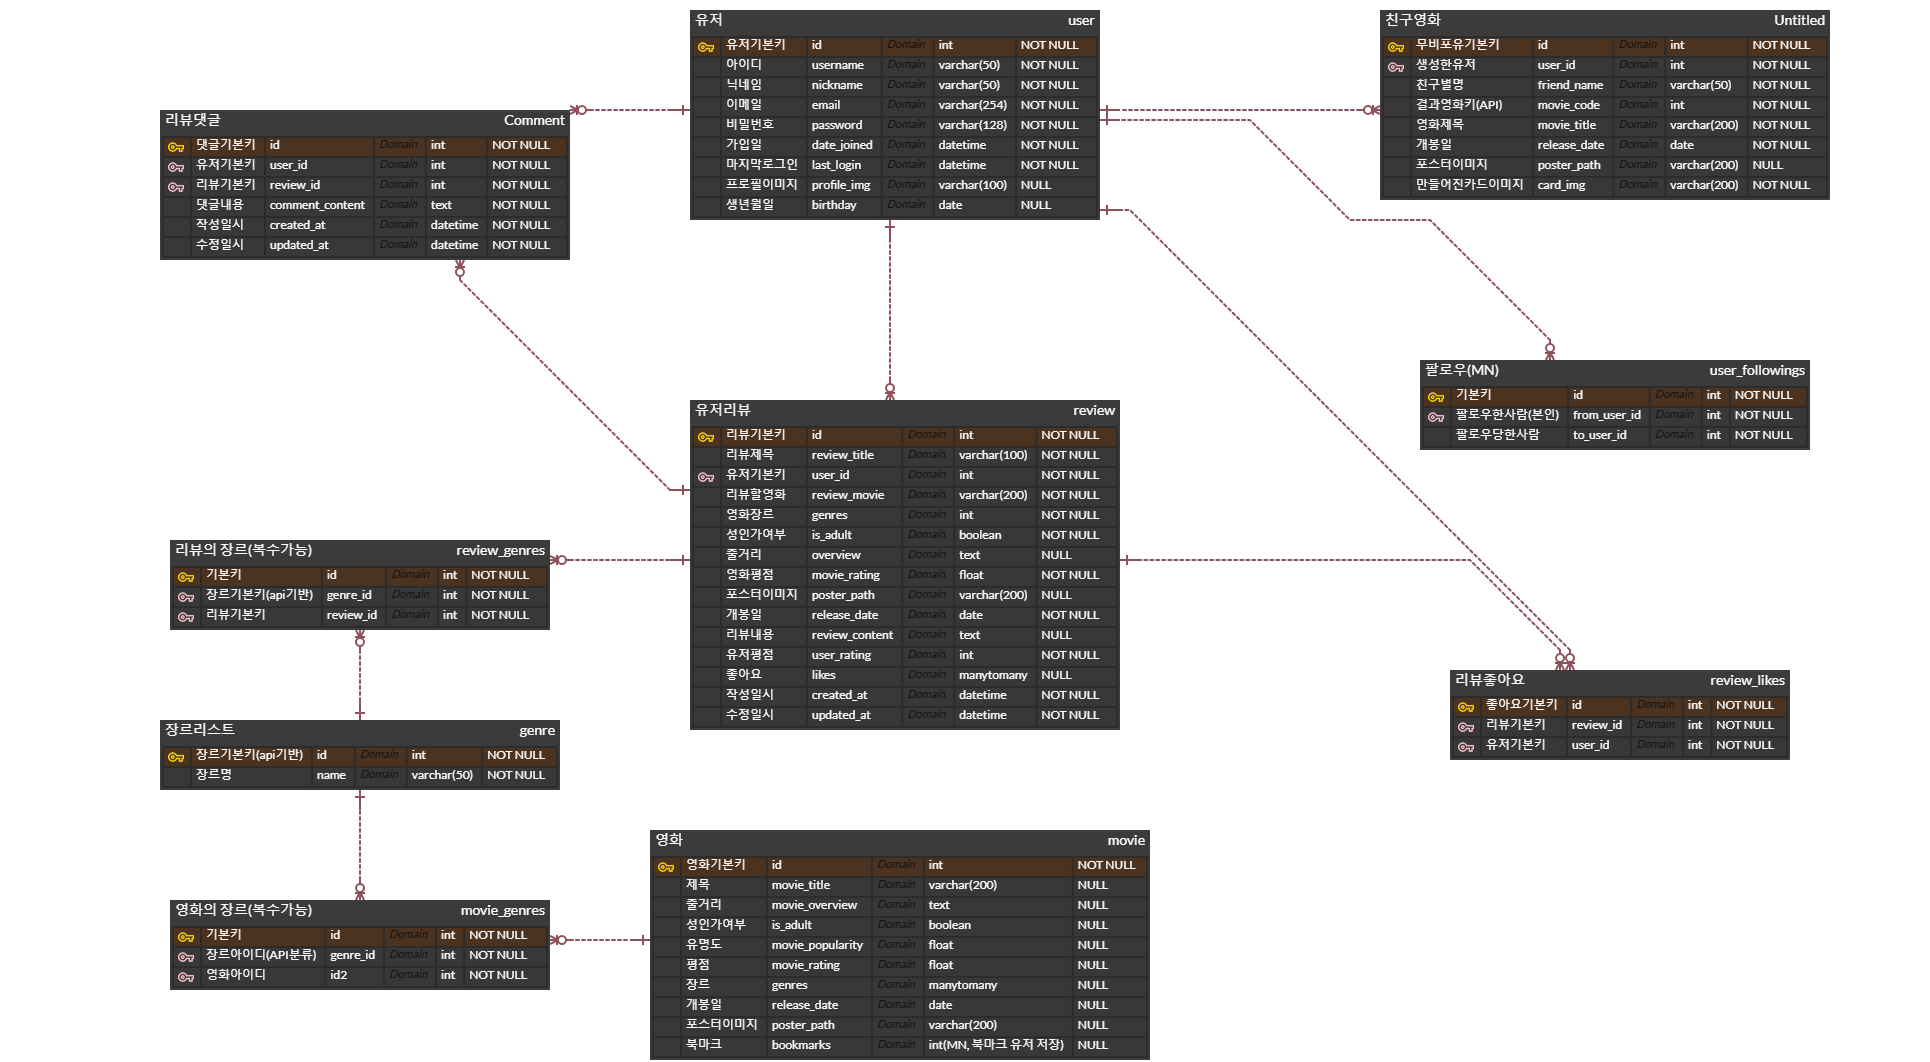
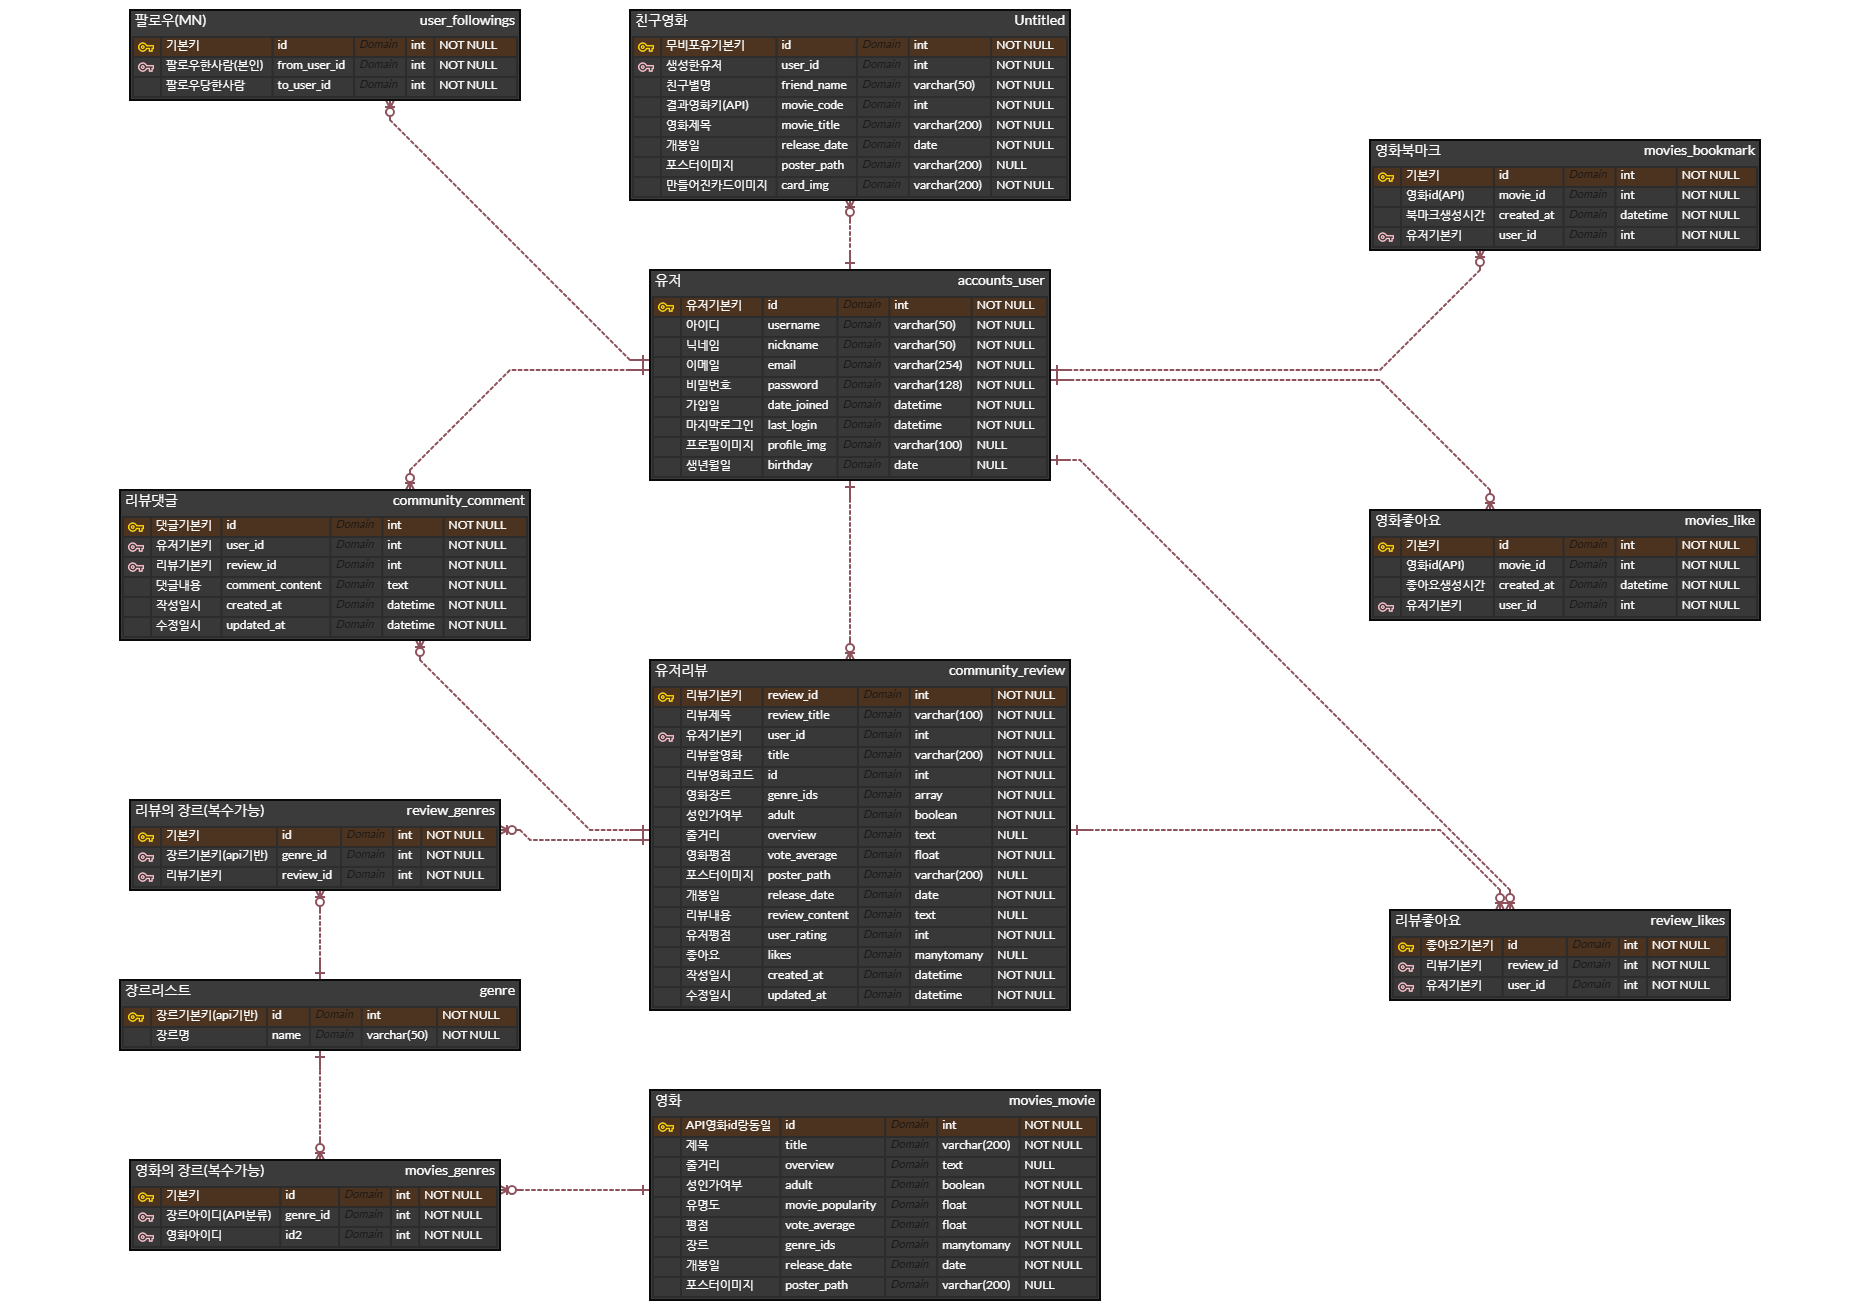
24.11.16 23:47 좋아요, 북마크 모델 수정 및 로직 수정

diff --git a/front-end/src/components/movies/MovieListItem.vue b/front-end/src/components/movies/MovieListItem.vue
@@ -14,12 +14,11 @@
             class="fa-heart fa-lg"
             :style="{ color: isLiked ? 'red' : '#B197FC' }"
             @animationend="isLikeAnimating = false"
-          ></i>{{ movie.likes_count }}
+          ></i>
         </span>
       </div>
       <div class="bookmarks" @click.stop="toggleBookmark">
         <span>
-          {{ movie.bookmarks_count }}
           <i
             :class="{
               'fa-regular': !isBookmarked,
@@ -76,17 +75,15 @@ const toggleBookmark = async () => {
   }
   try {
     const response = await authAxios.post('/movies/bookmark/', {
-      movie_id: props.movie.id
+      movie: props.movie
     })
     const { action } = response.data
     isBookmarkAnimating.value = true
     if (action === 'added') {
       store.userInfo.bookmarked_movies.push(props.movie.id)
-      props.movie.bookmarks_count++
     } else {
       const index = store.userInfo.bookmarked_movies.indexOf(props.movie.id)
       if (index !== -1) store.userInfo.bookmarked_movies.splice(index, 1)
-      props.movie.bookmarks_count--
     }
   } catch (error) {
     console.error('Bookmark toggle failed:', error)
@@ -102,31 +99,27 @@ const toggleLike = async () => {
   }
   try {
     const response = await authAxios.post('/movies/like/', {
-      movie_id: props.movie.id
+      movie: props.movie
     })
     const { action } = response.data
     isLikeAnimating.value = true
     if (action === 'added') {
       store.userInfo.liked_movies.push(props.movie.id)
-      props.movie.likes_count++
     } else {
       const index = store.userInfo.liked_movies.indexOf(props.movie.id)
       if (index !== -1) store.userInfo.liked_movies.splice(index, 1)
-      props.movie.likes_count--
     }
   } catch (error) {
     console.error('Like toggle failed:', error)
     alert('좋아요를 업데이트하는 중 문제가 발생했습니다. 다시 시도해주세요.')
   }
 }
-
-
 </script>
 
 <style scoped>
 .movie-item {
-  flex: 1 1 250px; /* 기본 너비를 지정하고 flex-grow와 flex-shrink를 조정 */
-  max-width: 250px; /* 최대 너비를 고정 */
+  flex: 1 1 250px;
+  max-width: 300px;
   display: flex;
   flex-direction: column;
   align-items: center;
@@ -140,16 +133,16 @@ const toggleLike = async () => {
 
 .truncate {
   display: inline-block;
-  max-width: 230px; /* 제목 길이 제한 */
+  max-width: 230px;
   overflow: hidden;
   text-overflow: ellipsis;
   white-space: nowrap;
 }
 
 #movie-poster {
-  width: 100%; /* 카드 너비에 맞게 설정 */
-  aspect-ratio: 2 / 3; /* 이미지 비율 유지 */
-  object-fit: cover; /* 비율에 맞게 잘림 */
+  width: 100%;
+  aspect-ratio: 2 / 3;
+  object-fit: cover;
   border-radius: 4px;
 }
 
@@ -158,7 +151,7 @@ const toggleLike = async () => {
   display: flex;
   align-items: center;
   justify-content: space-between;
-  margin-top: 10px; /* 상단과의 간격 추가 */
+  margin-top: 10px;
 }
 
 .likes, .bookmarks {

diff --git a/front-end/src/views/HomeView.vue b/front-end/src/views/HomeView.vue
@@ -18,7 +18,7 @@ const store = useCounterStore()
 // 영화 데이터 로드
 const loadMovies = async () => {
   try {
-    await store.loadTopMovies() // Pinia에서 영화 데이터를 로드
+    await store.loadTopMovies()
   } catch (error) {
     console.error('영화 데이터를 로드하는 중 오류 발생:', error)
   }

diff --git a/back-end/movies/views.py b/back-end/movies/views.py
@@ -2,6 +2,7 @@ from django.shortcuts import render, redirect, get_list_or_404, get_object_or_40
 from django.contrib.auth import get_user_model
 from django.contrib.auth.decorators import login_required
 from django.http import JsonResponse
+from django.db.models import Count
 from rest_framework.decorators import api_view, permission_classes
 from rest_framework.permissions import IsAuthenticated
 from rest_framework.response import Response
@@ -79,15 +80,20 @@ def load_top_rated_data(request):
     return JsonResponse({"error": "서버 오류가 발생했습니다."}, status=500)
 
 
-
 @api_view(['GET'])
 def index(request):
   try:
-    movies = Movie.objects.prefetch_related('genre_ids').all().order_by('-popularity')
+    movies = Movie.objects.annotate(
+      bookmarks_count=Count('bookmark'),
+      likes_count=Count('like')
+    ).prefetch_related('genre_ids').order_by('-popularity')
+
     serializer = MovieDetailSerializer(movies, many=True)
     return Response(serializer.data, status=200)
   except Exception as e:
-      return Response({"error": str(e)}, status=500)
+    # 에러 처리
+    return Response({"error": str(e)}, status=500)
+
 
 
 @api_view(['GET'])
@@ -137,11 +143,36 @@ def movie_search(request):
 @api_view(['POST'])
 @permission_classes([IsAuthenticated])
 def bookmark(request):
-    movie_id = request.data.get('movie_id')
-    if not movie_id:
+    movie_data = request.data.get('movie')
+    if not movie_data:
+        return Response({'error': 'movie data is required'}, status=status.HTTP_400_BAD_REQUEST)
+
+    id = movie_data.get('id')
+    if not id:
         return Response({'error': 'movie_id is required'}, status=status.HTTP_400_BAD_REQUEST)
 
-    bookmark, created = Bookmark.objects.get_or_create(user=request.user, movie_id=movie_id)
+    movie, _ = Movie.objects.get_or_create(
+        id=id,
+        defaults={
+            'title': movie_data['title'],
+            'overview': movie_data['overview'],
+            'adult': movie_data['adult'],
+            'popularity': movie_data['popularity'],
+            'vote_average': movie_data['vote_average'],
+            'release_date': movie_data['release_date'],
+            'poster_path': movie_data['poster_path'],
+        }
+    )
+
+    bookmark, created = Bookmark.objects.get_or_create(user=request.user, id=movie.id, defaults={
+        'title': movie.title,
+        'overview': movie.overview,
+        'adult': movie.adult,
+        'popularity': movie.popularity,
+        'vote_average': movie.vote_average,
+        'release_date': movie.release_date,
+        'poster_path': movie.poster_path,
+    })
 
     if not created:
         bookmark.delete()
@@ -149,18 +180,42 @@ def bookmark(request):
     else:
         action = 'added'
 
-    return Response({'action': action, 'movie_id': movie_id}, status=status.HTTP_200_OK)
-
+    return Response({'action': action, 'movie_id': id}, status=status.HTTP_200_OK)
 
 
 @api_view(['POST'])
 @permission_classes([IsAuthenticated])
 def like(request):
-    movie_id = request.data.get('movie_id')
-    if not movie_id:
+    movie_data = request.data.get('movie')
+    if not movie_data:
+        return Response({'error': 'movie data is required'}, status=status.HTTP_400_BAD_REQUEST)
+
+    id = movie_data.get('id')
+    if not id:
         return Response({'error': 'movie_id is required'}, status=status.HTTP_400_BAD_REQUEST)
 
-    like, created = Like.objects.get_or_create(user=request.user, movie_id=movie_id)
+    movie, _ = Movie.objects.get_or_create(
+        id=id,
+        defaults={
+            'title': movie_data['title'],
+            'overview': movie_data['overview'],
+            'adult': movie_data['adult'],
+            'popularity': movie_data['popularity'],
+            'vote_average': movie_data['vote_average'],
+            'release_date': movie_data['release_date'],
+            'poster_path': movie_data['poster_path'],
+        }
+    )
+
+    like, created = Like.objects.get_or_create(user=request.user, id=movie.id, defaults={
+        'title': movie.title,
+        'overview': movie.overview,
+        'adult': movie.adult,
+        'popularity': movie.popularity,
+        'vote_average': movie.vote_average,
+        'release_date': movie.release_date,
+        'poster_path': movie.poster_path,
+    })
 
     if not created:
         like.delete()
@@ -168,4 +223,4 @@ def like(request):
     else:
         action = 'added'
 
-    return Response({'action': action, 'movie_id': movie_id}, status=status.HTTP_200_OK)
+    return Response({'action': action, 'movie_id': id}, status=status.HTTP_200_OK)

diff --git a/back-end/movies/serializers.py b/back-end/movies/serializers.py
@@ -1,17 +1,17 @@
 from rest_framework import serializers
 from .models import Movie, Genre, Bookmark, Like
+from django.db.models import Count
+
 
 
 class GenreSerializer(serializers.ModelSerializer):
     class Meta:
         model = Genre
-        fields = ('id',)
+        fields = ('id', 'name')  # 'name' 필드를 추가
 
 
 class MovieDetailSerializer(serializers.ModelSerializer):
     genre_ids = GenreSerializer(many=True)
-    bookmarks_count = serializers.SerializerMethodField()
-    likes_count = serializers.SerializerMethodField()
 
     class Meta:
         model = Movie
@@ -20,11 +20,3 @@ class MovieDetailSerializer(serializers.ModelSerializer):
             'popularity', 'vote_average', 'genre_ids',
             'release_date', 'poster_path', 'bookmarks_count', 'likes_count'
         ]
-
-    def get_bookmarks_count(self, obj):
-        # 해당 영화에 대한 북마크 수를 계산
-        return Bookmark.objects.filter(movie_id=obj.id).count()
-
-    def get_likes_count(self, obj):
-        # 해당 영화에 대한 좋아요 수를 계산
-        return Like.objects.filter(movie_id=obj.id).count()

diff --git a/back-end/accounts/views.py b/back-end/accounts/views.py
@@ -21,8 +21,8 @@ class CustomUserInfoView(APIView):
     def get(self, request):
         user = User.objects.get(pk=request.user.pk)
 
-        bookmarked_movies = Bookmark.objects.filter(user=user).values_list('movie_id', flat=True)
-        liked_movies = Like.objects.filter(user=user).values_list('movie_id', flat=True)
+        bookmarked_movies = Bookmark.objects.filter(user=user).values_list('id', flat=True)
+        liked_movies = Like.objects.filter(user=user).values_list('id', flat=True)
 
         serializer = CustomUserSerializer(user)
         user_data = serializer.data
